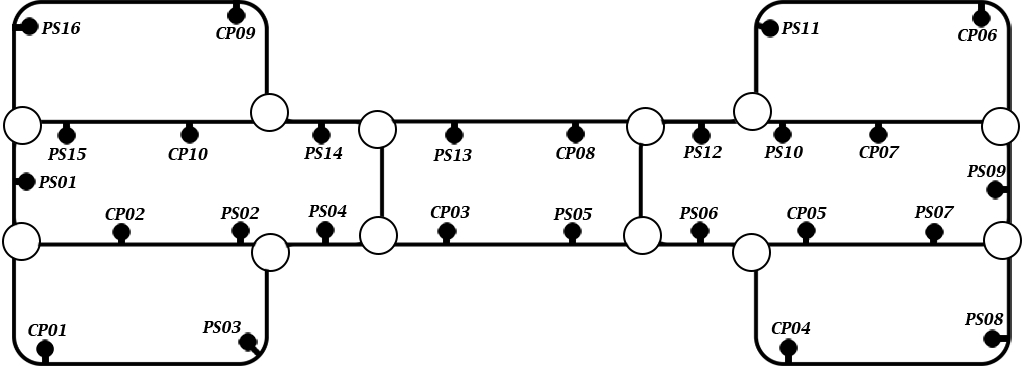
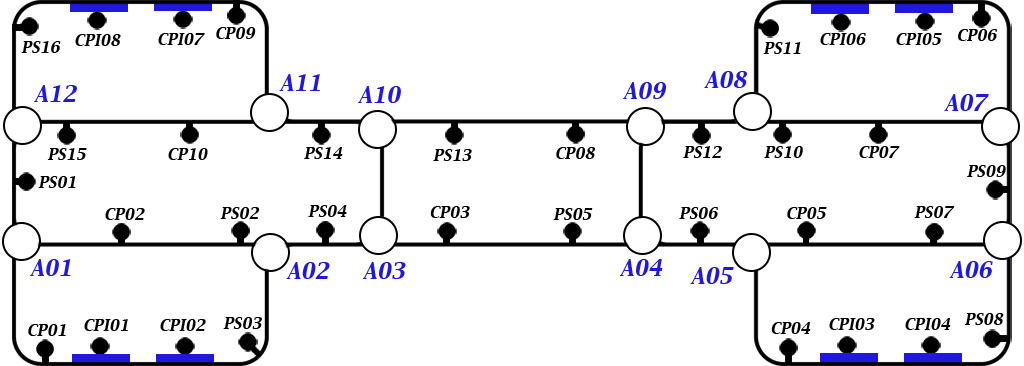
Ajout Aiguillage + CPI sur Schema

diff --git a/catkin_ws/src/simulation/src/simulation.cpp b/catkin_ws/src/simulation/src/simulation.cpp
@@ -112,6 +112,16 @@ void CapteurStateCallback(const std_msgs::Int32::ConstPtr& msg)
 	circle(imageCapteur, cv::Point(236, 16), 5, cv::Scalar(0,255*CP[9],255-255*CP[9]), -1, 8 );
 	circle(imageCapteur, cv::Point(190, 135), 5, cv::Scalar(0,255*CP[10],255-255*CP[10]), -1, 8 );
 
+	// CPI
+	circle(imageCapteur, cv::Point(100, 346), 5, cv::Scalar(0,255*CPI[1],255-255*CPI[1]), -1, 8 );
+	circle(imageCapteur, cv::Point(185, 346), 5, cv::Scalar(0,255*CPI[2],255-255*CPI[2]), -1, 8 );
+    	circle(imageCapteur, cv::Point(847, 345), 5, cv::Scalar(0,255*CPI[3],255-255*CPI[3]), -1, 8 );
+	circle(imageCapteur, cv::Point(931, 345), 5, cv::Scalar(0,255*CPI[4],255-255*CPI[4]), -1, 8 );
+	circle(imageCapteur, cv::Point(925, 21), 5, cv::Scalar(0,255*CPI[5],255-255*CPI[5]), -1, 8 );
+	circle(imageCapteur, cv::Point(841, 22), 5, cv::Scalar(0,255*CPI[6],255-255*CPI[6]), -1, 8 );
+	circle(imageCapteur, cv::Point(183, 19), 5, cv::Scalar(0,255*CPI[7],255-255*CPI[7]), -1, 8 );
+	circle(imageCapteur, cv::Point(97, 20), 5, cv::Scalar(0,255*CPI[8],255-255*CPI[8]), -1, 8 );
+
 	// PS
 	circle(imageCapteur, cv::Point(27, 181), 5, cv::Scalar(0,255*PS[1],255-255*PS[1]), -1, 8 );
 	circle(imageCapteur, cv::Point(241, 230), 5, cv::Scalar(0,255*PS[2],255-255*PS[2]), -1, 8 );
